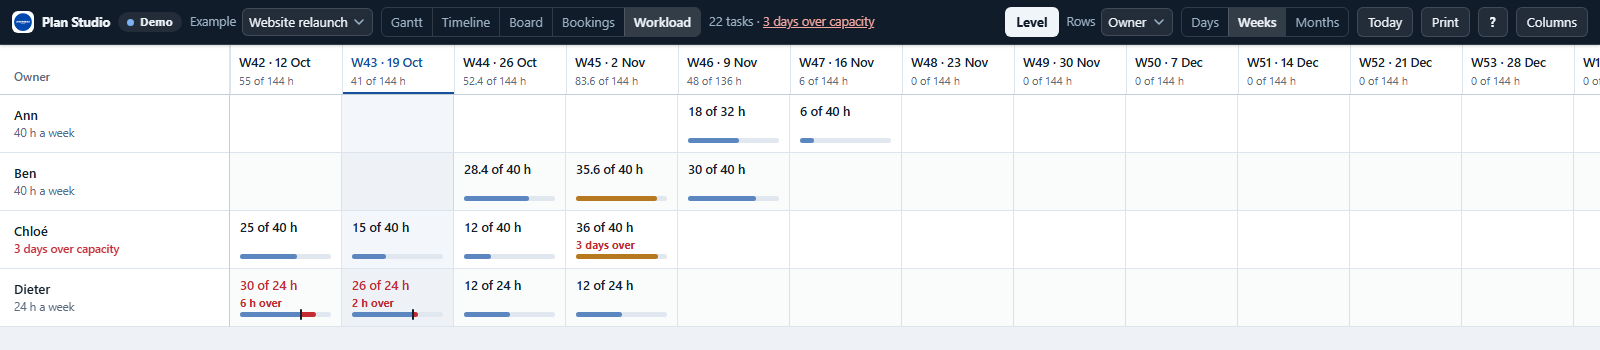
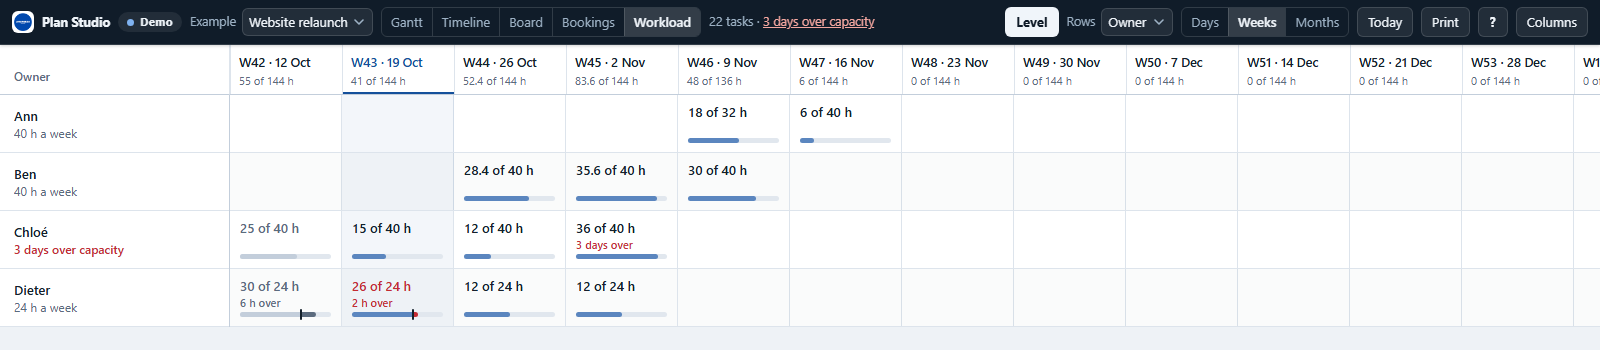
Release 1.1.1 — a calmer workload, and a starter that fits any weekday
The Project plan starter, set up on a Saturday or Sunday, began with Chloé over capacity (eight
days from a Sunday are five working days); its Design hours now fit, and a test sets it up on all
seven weekdays. The workload reads more calmly: regular-weight numbers, bold only when over, red as
the one warning colour with words beside it, and past weeks in quieter ink. On a phone the names
column gives way so three weeks show.

diff --git a/src/styles/views.css b/src/styles/views.css
@@ -5,12 +5,12 @@
    are what the eye finds first; every period says in words how many are free. */
 
 :root { --ps-free: #e3f2e9; --ps-free-hover: #cfe9da; --ps-today-col: rgba(20, 80, 155, 0.05); --ps-clash-soft: rgba(217, 54, 62, 0.07);
-  --ps-wl-track: #e1e7ee; --ps-wl-fill: #5b86bf; --ps-wl-high: #b7791f; }
+  --ps-wl-track: #e1e7ee; --ps-wl-fill: #5b86bf; }
 :root[data-grist-appearance="dark"] { --ps-free: rgba(98, 192, 141, 0.12); --ps-free-hover: rgba(98, 192, 141, 0.22); --ps-today-col: rgba(107, 165, 240, 0.07); --ps-clash-soft: rgba(255, 107, 111, 0.1);
-  --ps-wl-track: rgba(255, 255, 255, 0.09); --ps-wl-fill: #6ba5f0; --ps-wl-high: #d5a257; }
+  --ps-wl-track: rgba(255, 255, 255, 0.09); --ps-wl-fill: #6ba5f0; }
 @media (prefers-color-scheme: dark) {
   :root:not([data-grist-appearance="light"]) { --ps-free: rgba(98, 192, 141, 0.12); --ps-free-hover: rgba(98, 192, 141, 0.22); --ps-today-col: rgba(107, 165, 240, 0.07); --ps-clash-soft: rgba(255, 107, 111, 0.1);
-    --ps-wl-track: rgba(255, 255, 255, 0.09); --ps-wl-fill: #6ba5f0; --ps-wl-high: #d5a257; }
+    --ps-wl-track: rgba(255, 255, 255, 0.09); --ps-wl-fill: #6ba5f0; }
 }
 
 /* ---- timeline ---- */
@@ -104,29 +104,33 @@
 /* ---- workload (M9) ----
    A resource sheet: each cell says the hours asked against the hours there are, over a thin meter
    whose track is the capacity. Past it the meter runs on in the warning colour, beyond a tick, and the
-   cell says how many hours over. A day with no capacity (a weekend, a holiday, a day off) is hatched. */
+   cell says how many hours over; a week that fits but has days that do not says so in words. Red is
+   the one warning colour, always with words. A day with no capacity (a weekend, a holiday, a day off) is hatched. */
 .ps-wl .ps-book__body { background-image: repeating-linear-gradient(to right, transparent 0 calc(var(--col-w) - 1px), var(--ps-line) calc(var(--col-w) - 1px) var(--col-w)); background-color: var(--ps-surface); }
 .ps-wl .ps-book__row.is-alt { background: var(--ps-stripe); }
 .ps-wl__team { font-size: 11px; color: var(--ps-muted); font-variant-numeric: tabular-nums; }
-.ps-wl__team.is-over { color: var(--ps-crit); font-weight: 650; }
-.ps-wl__cap { font-size: 11.5px; color: var(--ps-muted); font-variant-numeric: tabular-nums; }
+.ps-wl__team.is-over { color: var(--ps-crit); font-weight: 600; }
+.ps-wl__cap { font-size: 12px; line-height: 15px; color: var(--ps-muted); font-variant-numeric: tabular-nums; overflow: hidden; display: -webkit-box; -webkit-box-orient: vertical; -webkit-line-clamp: 2; }
 .ps-wl__cap.is-over { color: var(--ps-crit); font-weight: 600; }
 .ps-wl__cell { position: absolute; box-sizing: border-box; cursor: pointer; border-right: 1px solid var(--ps-line); }
 .ps-wl__cell:hover { background: var(--ps-hover); }
-.ps-wl__num { position: absolute; left: 10px; top: 8px; font-size: 12.5px; font-weight: 600; font-variant-numeric: tabular-nums; white-space: nowrap; }
+.ps-wl__num { position: absolute; left: 10px; top: 8px; font-size: 13px; font-weight: 500; font-variant-numeric: tabular-nums; white-space: nowrap; }
 .ps-wl__cell.is-free .ps-wl__num { font-weight: 500; color: var(--ps-muted); }
-.ps-wl__cell.is-over .ps-wl__num { color: var(--ps-crit); }
-.ps-wl__note { position: absolute; left: 10px; right: 6px; top: 26px; font-size: 11px; font-weight: 650; color: var(--ps-crit); font-variant-numeric: tabular-nums; white-space: nowrap; overflow: hidden; text-overflow: ellipsis; }
+.ps-wl__cell.is-over .ps-wl__num { color: var(--ps-crit); font-weight: 600; }
+.ps-wl__note { position: absolute; left: 10px; right: 6px; top: 26px; font-size: 11px; font-weight: 600; color: var(--ps-crit); font-variant-numeric: tabular-nums; white-space: nowrap; overflow: hidden; text-overflow: ellipsis; }
 .ps-wl__meter { position: absolute; left: 10px; right: 10px; bottom: 10px; height: 5px; border-radius: 3px; background: var(--ps-wl-track); }
 .ps-wl__fill { position: absolute; left: 0; top: 0; bottom: 0; border-radius: 3px; background: var(--ps-wl-fill); }
-.ps-wl__cell.is-high .ps-wl__fill { background: var(--ps-wl-high); }
 .ps-wl__cell.is-over .ps-wl__fill { background: var(--ps-wl-fill); border-radius: 3px 0 0 3px; }
 .ps-wl__spill { position: absolute; top: 0; bottom: 0; background: var(--ps-crit); border-radius: 0 3px 3px 0; }
 .ps-wl__meter.has-tick::after { content: ""; position: absolute; left: calc(100% / 1.5); top: -3px; bottom: -3px; width: 2px; margin-left: -1px; background: var(--ps-ink); border-radius: 1px; }
 .ps-wl__cell.is-off { cursor: default; background: repeating-linear-gradient(135deg, var(--ps-weekend) 0 5px, transparent 5px 10px); }
 .ps-wl__cell.is-off:hover { background: repeating-linear-gradient(135deg, var(--ps-weekend) 0 5px, transparent 5px 10px); }
 .ps-wl__cell.is-offday { background: var(--ps-clash-soft); }
-.ps-wl__offword { position: absolute; left: 0; right: 0; top: 21px; text-align: center; font-size: 10.5px; color: var(--ps-muted); }
+.ps-wl__offword { position: absolute; left: 0; right: 0; top: 21px; text-align: center; font-size: 11px; color: var(--ps-muted); }
+/* the past: same words, quieter ink and a grey meter, so the overloads still ahead are the loud ones */
+.ps-wl__cell.is-past .ps-wl__num, .ps-wl__cell.is-past .ps-wl__note { color: var(--ps-muted); }
+.ps-wl__cell.is-past .ps-wl__fill { background: var(--ps-line-strong); }
+.ps-wl__cell.is-past .ps-wl__spill { background: var(--ps-muted); }
 .ps-wl__pop {
   position: absolute; z-index: 12; width: min(330px, calc(100% - 16px)); box-sizing: border-box; padding: 10px 0 8px;
   background: var(--ps-surface); border: 1px solid var(--ps-line-strong); border-radius: 8px; box-shadow: 0 10px 28px rgba(0, 0, 0, 0.18);
@@ -140,6 +144,6 @@
 .ps-wl__task:hover, .ps-wl__task:focus-visible { background: var(--ps-hover); outline: none; }
 .ps-wl__task:focus-visible { box-shadow: inset 2px 0 0 var(--ps-focus); }
 .ps-wl__task.is-selected { background: var(--ps-sel); }
-.ps-wl__tname { flex: 1 1 auto; min-width: 0; overflow: hidden; text-overflow: ellipsis; white-space: nowrap; font-size: 12.5px; }
+.ps-wl__tname { flex: 1 1 auto; min-width: 0; overflow: hidden; text-overflow: ellipsis; white-space: nowrap; font-size: 13px; }
 .ps-wl__th { flex: none; font-size: 12px; color: var(--ps-muted); font-variant-numeric: tabular-nums; }
 .ps-wl__pophint { margin: 0; padding: 6px 12px 0; font-size: 11px; color: var(--ps-muted); }

diff --git a/src/views/workload/view.js b/src/views/workload/view.js
@@ -20,7 +20,10 @@ import { t, tn } from '../../i18n/index.js';
 const HEAD_H = 50;
 const ROW_H = 58;
 const COL_W = { day: 64, week: 112, month: 124 };
-const resWidthFor = (w) => Math.round(Math.max(140, Math.min(230, w * 0.2)));
+// On a phone the names give way first, so three weeks still show rather than one and a half.
+const NARROW = 600;
+const COL_W_NARROW = { day: 56, week: 92, month: 104 };
+const resWidthFor = (w) => Math.round(w < NARROW ? Math.max(96, Math.min(130, w * 0.27)) : Math.max(140, Math.min(230, w * 0.2)));
 
 /** Hours as people write them in this language: 8, 7.5 (7,5 in German and French), at most one decimal. */
 const NUMBERS = new Map();
@@ -60,7 +63,7 @@ export function createWorkload(host, on = {}) {
 
   function size() {
     resW = resWidthFor(scroll.clientWidth || 900);
-    const base = COL_W[model.unit] || 112;
+    const base = ((scroll.clientWidth || 900) < NARROW ? COL_W_NARROW : COL_W)[model.unit] || 112;
     const n = Math.max(1, model.periods.length);
     colW = Math.round(Math.min(base * 1.8, Math.max(base, (Math.max(0, (scroll.clientWidth || 900) - resW) - 2) / n)));
     canvas.style.setProperty('--res-w', resW + 'px');
@@ -134,12 +137,14 @@ export function createWorkload(host, on = {}) {
     const day = model.unit === 'day';
     // A week can fit in total and still have days that do not: the cell says so.
     const overDays = !over && x.over > 0;
+    // What is past can no longer be levelled: it keeps its words, in quieter ink.
+    const past = model.periods[i].end < model.today;
     const text = x.cap == null ? hours(x.load) + ' h' : day ? `${hours(x.load)}/${hours(x.cap)}` : t('{load} of {cap} h', { load: hours(x.load), cap: hours(x.cap) });
     // The meter's track is the capacity (100 %); an overload runs past a tick at the end of it, up to half again.
     const fill = Math.min(1, ratio) * (over ? 100 / 1.5 : 100);
     const extra = over ? Math.min(0.5, ratio - 1) * (100 / 1.5) : 0;
     return el('div', {
-      ...base, class: 'ps-wl__cell' + (over ? ' is-over' : overDays || ratio > 0.85 ? ' is-high' : '') + (x.cap == null ? ' is-free' : '') + (x.off ? ' is-offday' : ''),
+      ...base, class: 'ps-wl__cell' + (over ? ' is-over' : overDays ? ' has-overdays' : '') + (x.cap == null ? ' is-free' : '') + (x.off ? ' is-offday' : '') + (past ? ' is-past' : ''),
       role: 'img', 'aria-label': `${name(p)}, ${periodLabel(model.periods[i], i)}: ${cellWords(p, x)}`,
     }, [
       el('span', { class: 'ps-wl__num', text }),

diff --git a/src/model/templates.js b/src/model/templates.js
@@ -52,11 +52,12 @@ export function templates(t) {
       ],
       rows: (day) => ({
         [people]: [{ Name: 'Ann', [weekly]: 40 }, { Name: 'Ben', [weekly]: 40 }, { Name: 'Chloé', [weekly]: 30 }],
-        // Hours that fit their owners whatever weekday the plan starts on; milestones take no hours.
+        // Hours that fit their owners whatever weekday the plan is set up on (tests/templates.test.mjs tries all
+        // seven: eight days from a Sunday are only five working days); milestones take no hours.
         '@self': [
           [t('Kick-off'), 0, 0, t('Done'), 1, null, 1, true, []],
           [t('Gather requirements'), 1, 4, t('Done'), 2, 16, 1, false, [1]],
-          [t('Design'), 7, 14, t('Doing'), 3, 32, 0.4, false, [2]],
+          [t('Design'), 7, 14, t('Doing'), 3, 28, 0.4, false, [2]],
           [t('Build'), 15, 29, t('To do'), 2, 80, 0, false, [3]],
           [t('Test'), 30, 35, t('To do'), 1, 30, 0, false, [4]],
           [t('Launch'), 36, 36, t('To do'), 1, null, 0, true, [5]],

diff --git a/src/styles/app.css b/src/styles/app.css
@@ -270,7 +270,7 @@ button, input, select { font: inherit; color: inherit; }
 .ps-dialog__item { font-weight: 500; min-width: 0; overflow: hidden; text-overflow: ellipsis; white-space: nowrap; }
 .ps-dialog__detail { flex: none; font-size: 12px; color: var(--ps-muted); font-variant-numeric: tabular-nums; }
 .ps-dialog p.ps-dialog__note { margin: -4px 0 16px; font-size: 12px; }
-.ps-tip__hint { margin-top: 3px; opacity: 0.75; font-size: 11.5px; }
+.ps-tip__hint { margin-top: 3px; opacity: 0.75; font-size: 12px; }
 
 /* ---- structure (M3) ---- */
 :root { --ps-crit: #c42b33; --ps-holiday: rgba(217, 119, 6, 0.10); --ps-link: #64748b; }

diff --git a/src/version.js b/src/version.js
@@ -1,3 +1,3 @@
 // The release this build belongs to. scripts/check-version.mjs keeps it equal to package.json, the
 // lockfile and the newest changelog entry.
-export const VERSION = '1.1.0';
+export const VERSION = '1.1.1';

diff --git a/CHANGELOG.md b/CHANGELOG.md
@@ -1,5 +1,17 @@
 # Changelog
 
+## 1.1.1
+
+- The Project plan starter no longer starts with someone over capacity. Set up on a Saturday or a
+  Sunday, its Design task asked Chloé for more hours than her five working days held. A test now
+  sets the starter up on each of the seven weekdays.
+- The workload reads more calmly. Numbers are regular weight and bold only when over; red is the one
+  warning colour and always comes with words (the amber "nearly full" meter is gone); weeks already
+  past are in quieter ink, since Level only moves what is still ahead.
+- On a phone the names column gives way, so three weeks show instead of one and a half, and a
+  person's "days over capacity" wraps instead of being cut off.
+- The workload's type sizes and weights follow the family's scale.
+
 ## 1.1.0
 
 The workload: who has too much on, when, and the moves that fix it.

diff --git a/README.md b/README.md
@@ -1,7 +1,7 @@
 # Plan Studio — a custom widget for Grist (by ANUPRESS)
 
 [![License: MIT](https://img.shields.io/badge/License-MIT-2563EB.svg)](LICENSE)
-[![Version](https://img.shields.io/badge/version-1.1.0-0F1B2D.svg)](CHANGELOG.md)
+[![Version](https://img.shields.io/badge/version-1.1.1-0F1B2D.svg)](CHANGELOG.md)
 [![Live demo](https://img.shields.io/badge/live_demo-try_it-16a34a.svg)](https://anupress.github.io/grist-plan-studio/)
 
 Plan Studio shows a table you already keep in Grist as a **Gantt chart**, a **timeline**, a
